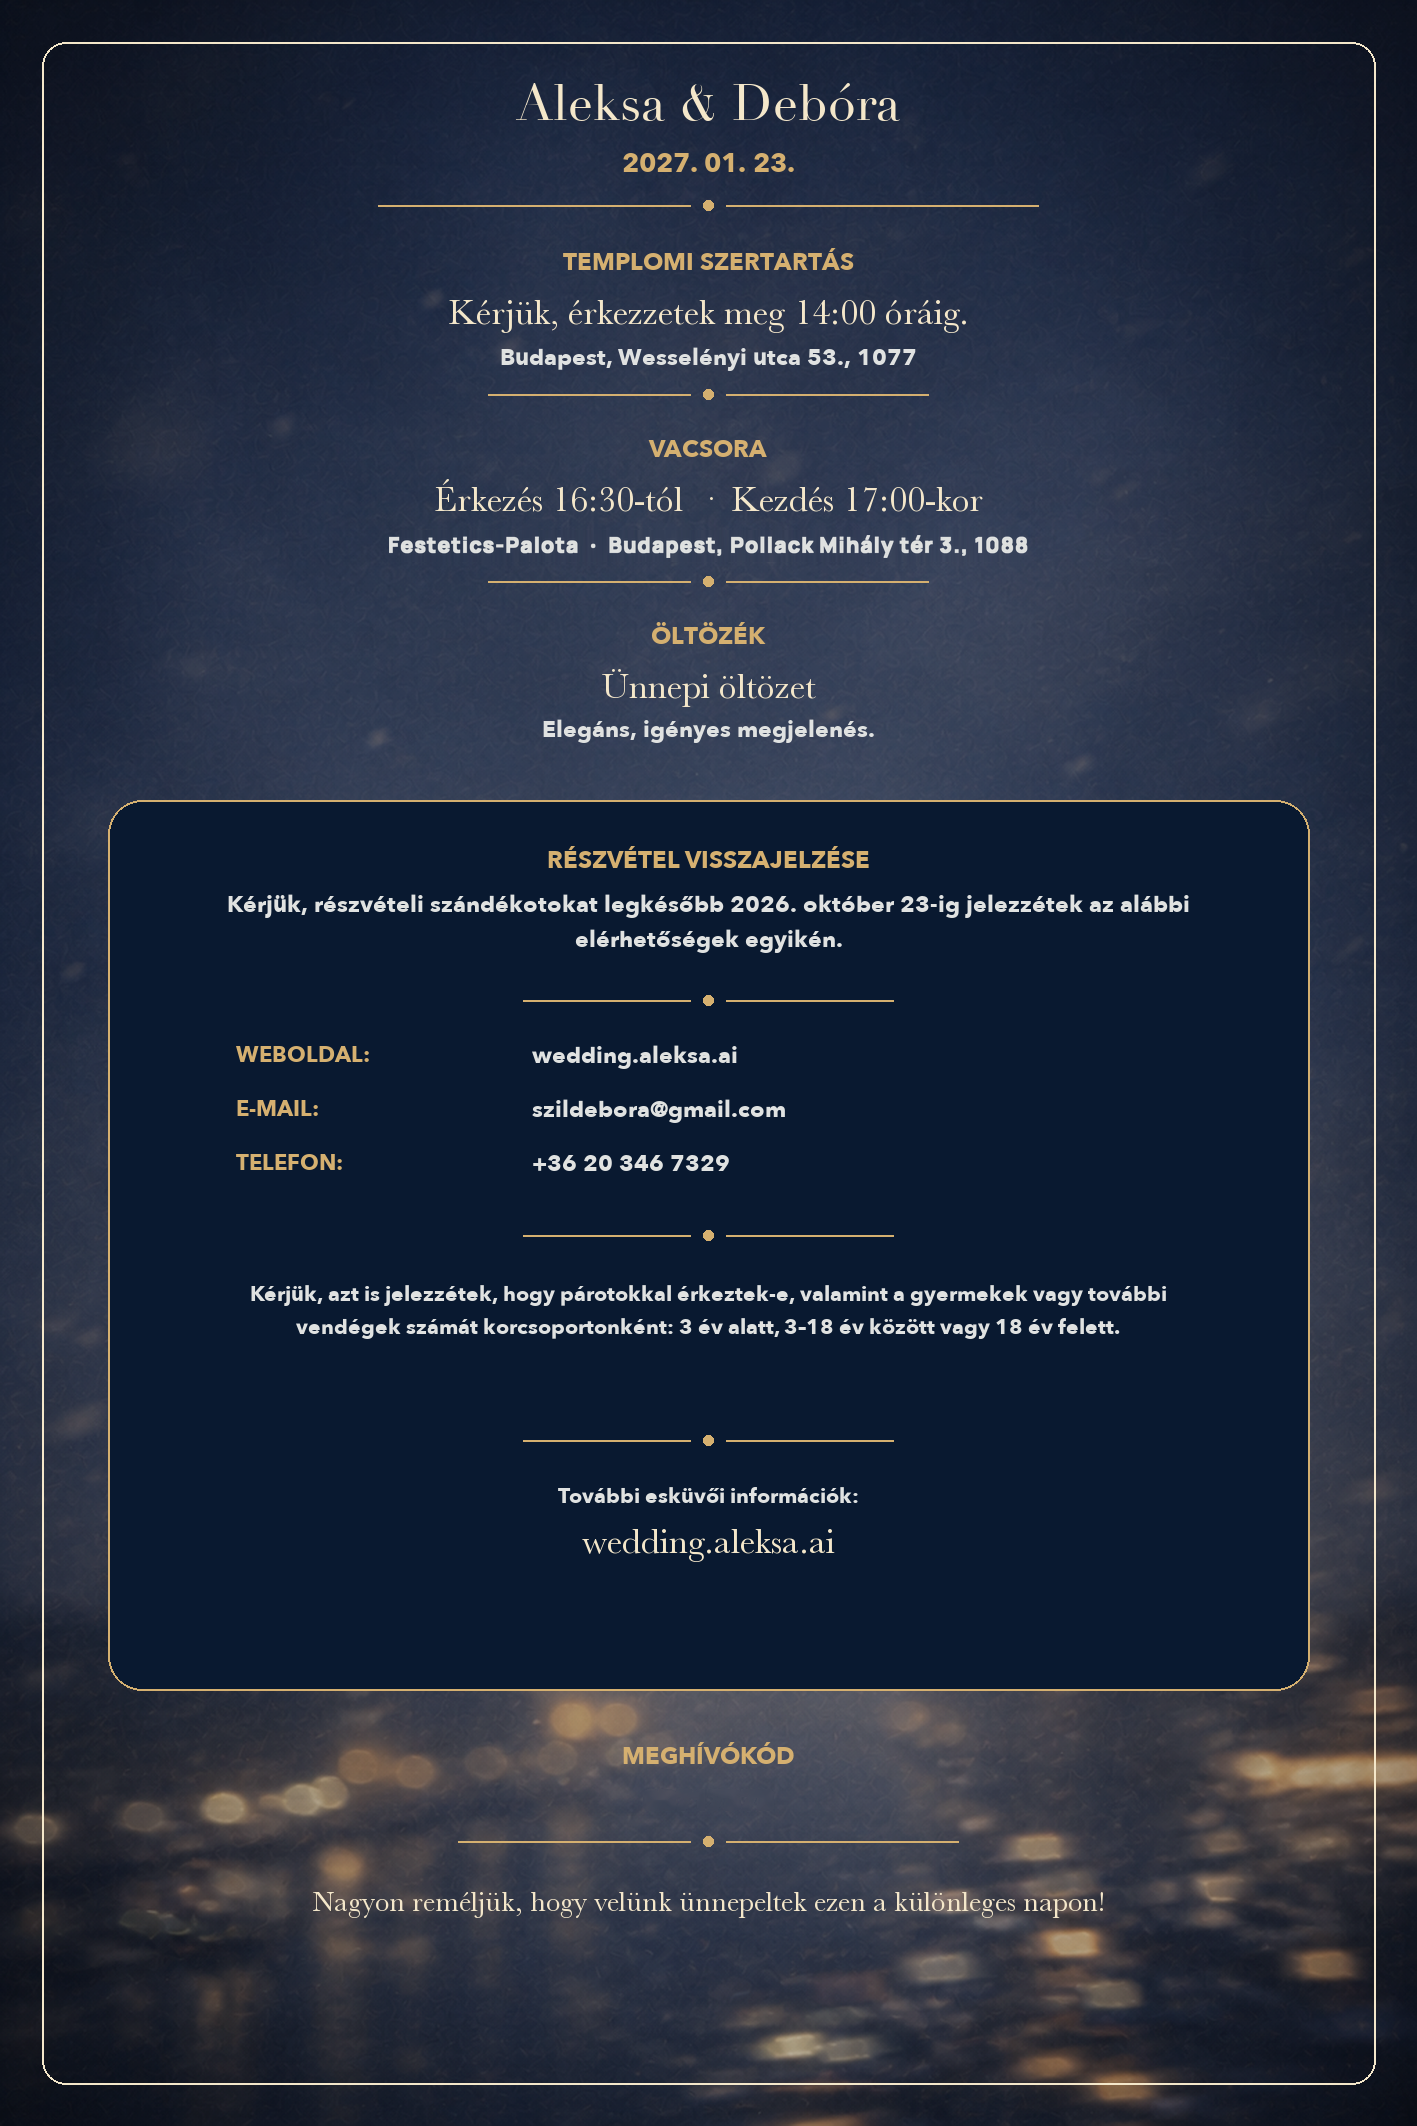
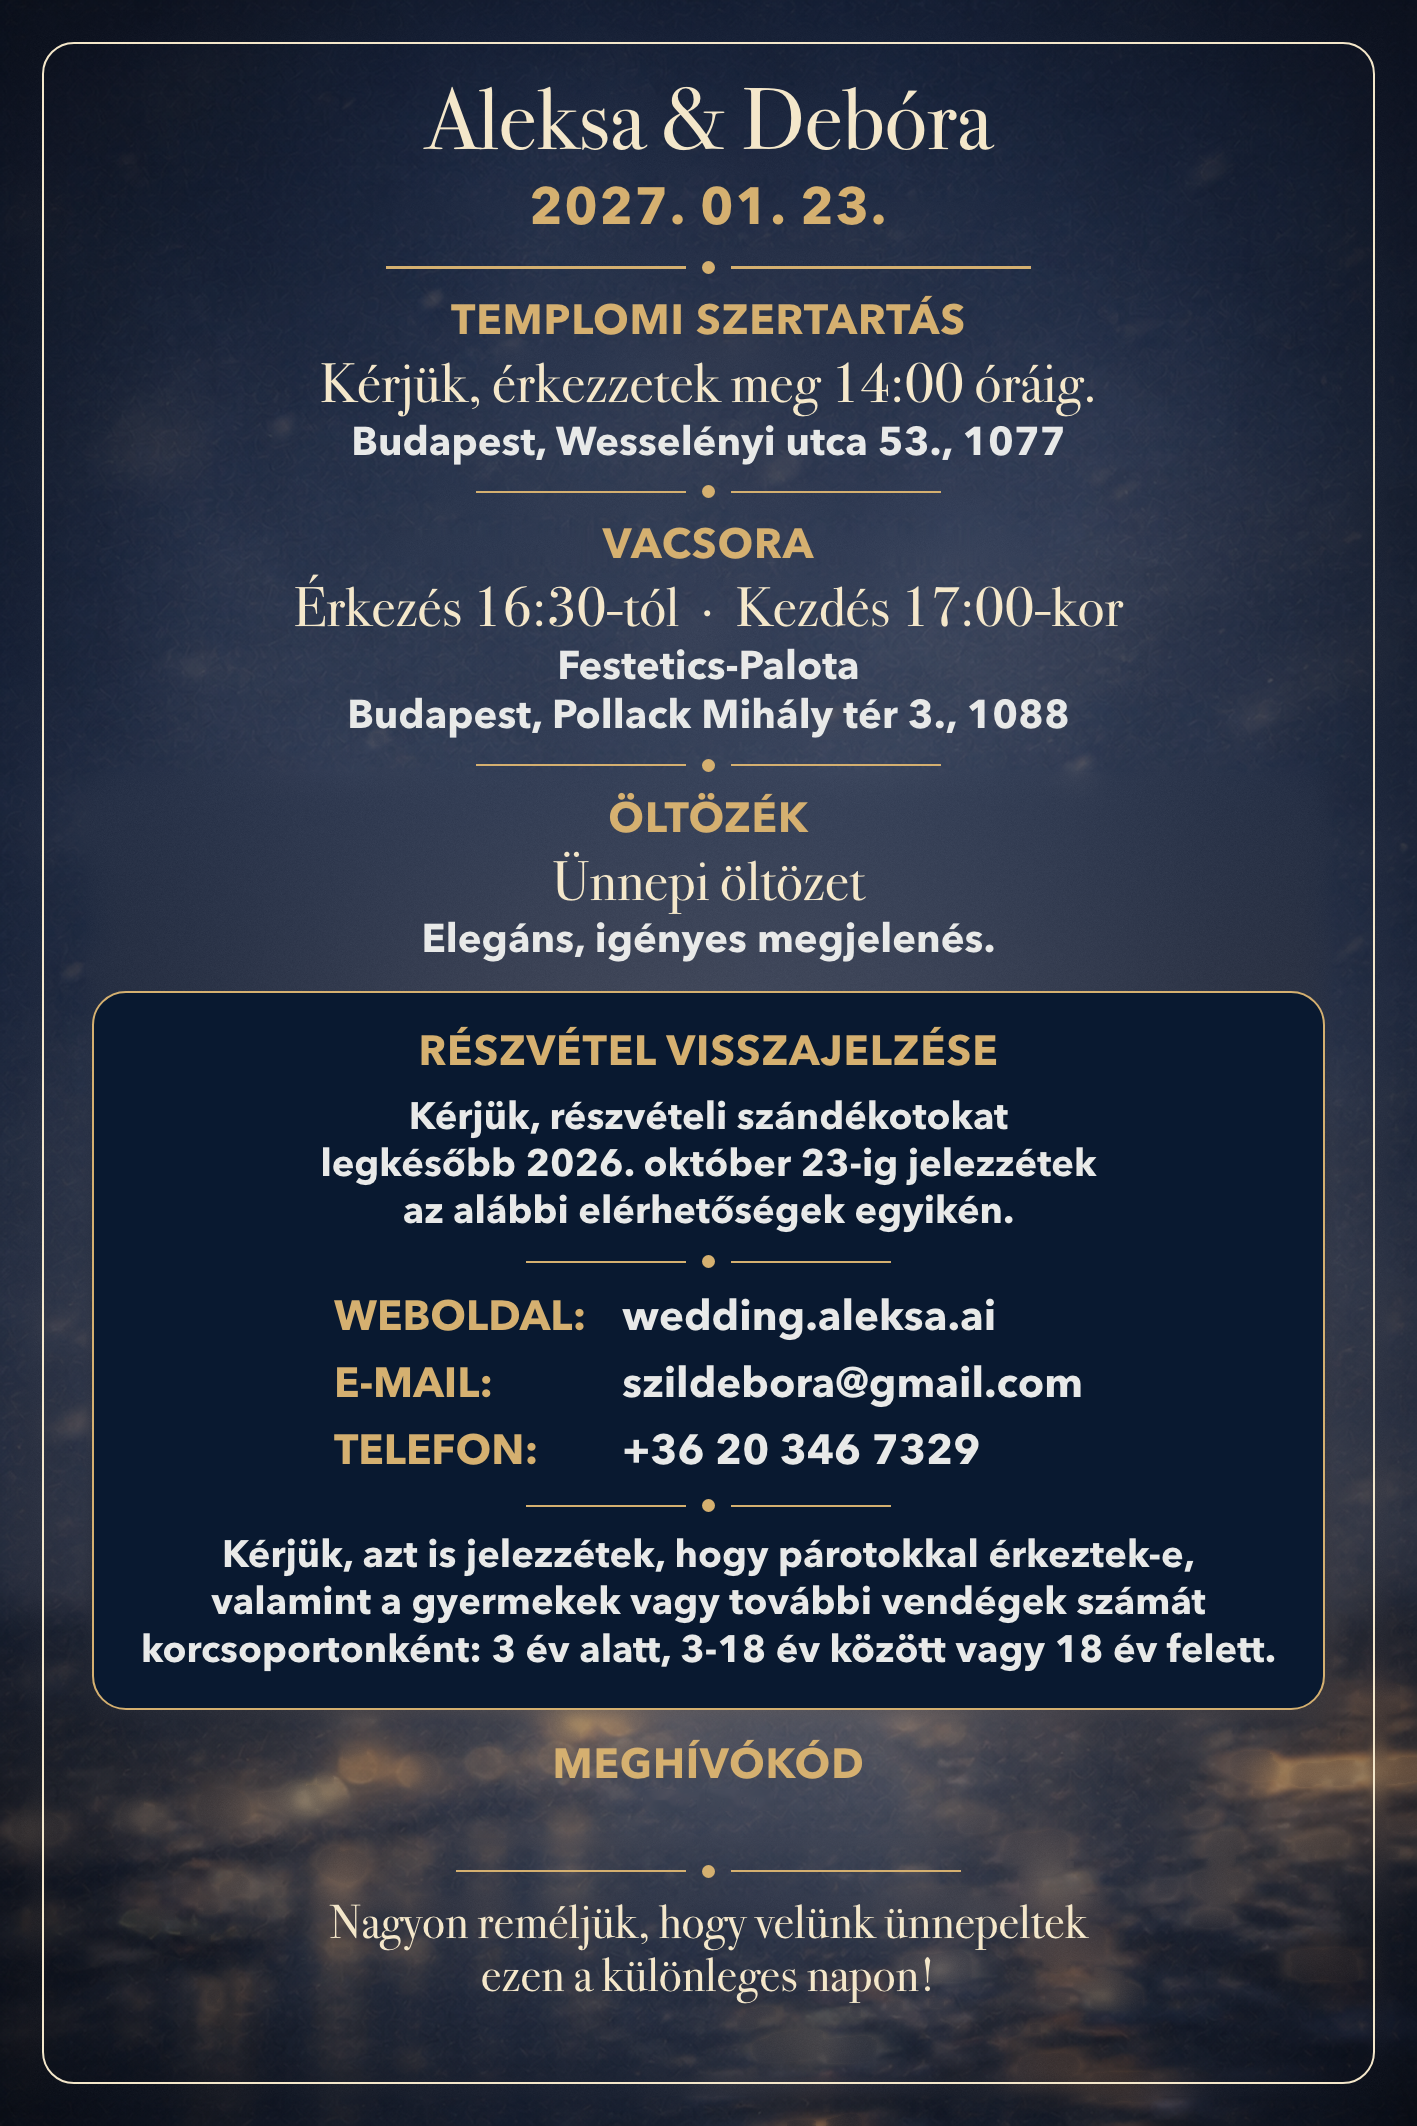
Larger type on the Hungarian invitation cards
Debóra's older relatives could not read the printed Hungarian cards.
Front and back are reset in bigger type over the original background,
and the admin places a larger invitation code for Hungarian backs.

diff --git a/src/admin/AdminApp.jsx b/src/admin/AdminApp.jsx
@@ -68,7 +68,13 @@ const statusLabels = {
 const cardLanguages = new Set(["de", "en", "hu", "sr"]);
 // Update this fingerprint whenever any approved card artwork changes so
 // already-open admin sessions cannot reuse stale browser/CDN image caches.
-const cardArtworkVersion = "40d3cf693e2b";
+const cardArtworkVersion = "b7e2c41f9a06";
+
+// Where the personal code sits on each back (px on the 1417 × 2126 artwork).
+// The Hungarian cards were reset in larger type for older guests, so their code is larger too.
+const cardHeight = 2126;
+const codeSlots = { HU: { y: 1829, size: 56 } };
+const defaultCodeSlot = { y: 1800, size: 26 };
 
 // Download names should read like the guest, not like the database:
 // "kyung_einladung_front.png" instead of "0B59A6DB-DE-FRONT.png". The code is
@@ -106,6 +112,7 @@ function cardAssets(language) {
   return {
     front: `/assets/cards/${normalized}-FRONT.png?v=${cardArtworkVersion}`,
     back: `/assets/cards/${normalized}-BACK.png?v=${cardArtworkVersion}`,
+    codeSlot: codeSlots[normalized] || defaultCodeSlot,
   };
 }
 
@@ -117,6 +124,8 @@ function openPrintableCard(invitation, fileBase) {
   const front = new URL(assets.front, window.location.origin).href;
   const back = new URL(assets.back, window.location.origin).href;
   const personalCode = invitation.code;
+  const codeTop = (assets.codeSlot.y / cardHeight * 100).toFixed(2);
+  const codePt = (assets.codeSlot.size * 72 / 300).toFixed(1);
   popup.document.write(`<!doctype html>
     <html><head><meta charset="utf-8"><title>${fileBase}</title>
     <style>
@@ -128,7 +137,7 @@ function openPrintableCard(invitation, fileBase) {
       img { display: block; width: 100%; height: 100%; }
       .page--front img { object-fit: fill; }
       .page--back img { object-fit: fill; }
-      .personal-code { position: absolute; left: 10mm; right: 10mm; top: 84.67%; transform: translateY(-50%); text-align: center; color: #f8e8c8; font: 600 6.2pt/1 "Avenir Next", Avenir, Helvetica, sans-serif; letter-spacing: .025em; }
+      .personal-code { position: absolute; left: 10mm; right: 10mm; top: ${codeTop}%; transform: translateY(-50%); text-align: center; color: #f8e8c8; font: 600 ${codePt}pt/1 "Avenir Next", Avenir, Helvetica, sans-serif; letter-spacing: .025em; }
       @media screen { .page { margin-block: 18px; box-shadow: 0 18px 60px rgba(14,31,44,.2); } }
       @media print { html, body { background: transparent; } .page { margin: 0; box-shadow: none; } }
     </style></head><body>
@@ -185,7 +194,7 @@ async function withPngDensity(blob, dpi = 300) {
 }
 
 async function downloadPersonalizedBack(invitation, fileBase) {
-  const { back } = cardAssets(invitation.default_language);
+  const { back, codeSlot } = cardAssets(invitation.default_language);
   const response = await fetch(back);
   if (!response.ok) throw new Error("Card artwork could not be loaded");
   const sourceBlob = await response.blob();
@@ -201,12 +210,12 @@ async function downloadPersonalizedBack(invitation, fileBase) {
   context.drawImage(image, 0, 0);
   URL.revokeObjectURL(objectUrl);
 
-  await document.fonts?.load('600 26px "Avenir Next"');
+  await document.fonts?.load(`600 ${codeSlot.size}px "Avenir Next"`);
   context.fillStyle = "#f8e8c8";
-  context.font = '600 26px "Avenir Next", Avenir, Helvetica, sans-serif';
+  context.font = `600 ${codeSlot.size}px "Avenir Next", Avenir, Helvetica, sans-serif`;
   context.textAlign = "center";
   context.textBaseline = "middle";
-  context.fillText(invitation.code, canvas.width / 2, 1800);
+  context.fillText(invitation.code, canvas.width / 2, codeSlot.y);
 
   const renderedBlob = await new Promise((resolve, reject) => canvas.toBlob((result) => result ? resolve(result) : reject(new Error("Card image could not be generated")), "image/png"));
   const downloadBlob = await withPngDensity(renderedBlob, 300);
@@ -384,7 +393,7 @@ function CardDrawer({ invitation, fileBase, onClose, onGenerated, onCopyLink }) 
         </header>
         <div className="card-preview-pair">
           <figure><div className="card-sheet card-sheet--front"><img src={assets.front} alt={`${invitation.default_language.toUpperCase()} invitation front`} /></div><figcaption>Front</figcaption></figure>
-          <figure><div className="card-sheet card-sheet--back"><img src={assets.back} alt={`${invitation.default_language.toUpperCase()} invitation back`} /><span>{invitation.code}</span></div><figcaption>Back · invitation code</figcaption></figure>
+          <figure><div className="card-sheet card-sheet--back"><img src={assets.back} alt={`${invitation.default_language.toUpperCase()} invitation back`} /><span style={{ top: `${assets.codeSlot.y / cardHeight * 100}%`, fontSize: `${0.42 * assets.codeSlot.size / defaultCodeSlot.size}rem` }}>{invitation.code}</span></div><figcaption>Back · invitation code</figcaption></figure>
         </div>
         <div className="card-personal-link"><span>Personal invitation</span><code>https://{weddingHost}/{invitation.code}</code></div>
         <div className="card-actions">

diff --git a/AGENTS.md b/AGENTS.md
@@ -28,6 +28,7 @@ Build app UI in `src/`. Keep `.openai/hosting.json`, `worker/index.js`, `scripts
 - The Hungarian and English backs carry the venue name in front of the reception address: `Festetics-Palota  ·  Budapest, Pollack Mihály tér 3., 1088` on HU and `Festetics Palace  ·  Budapest, Pollack Mihály tér 3, 1088` on EN (decision 2026-09-18; DE and SR keep the plain address). Each language keeps its own address punctuation. The line was repainted into `HU-BACK.png` and `EN-BACK.png` themselves, the background under it rebuilt by vertical interpolation from the clean rows above and below, and the type set in Manrope 800 at 21 px with 1.2 px tracking and a half-pixel dilation, calibrated against the original line so weight, height and baseline are unchanged. Keep the artwork at 1417 × 2126, 300 dpi, ICC profile intact.
 - Each approved back contains a localized invitation-code heading and a dedicated code slot. The public base assets must never contain a real invitation code. The user-facing preview, print flow, and personalized back-image download render only the selected invitation's existing `wedding_invitations.code` into that slot. The downloaded 1417 × 2126 PNG retains 300 dpi metadata. Active invitations have cards available immediately; backup invitations must never show or generate a card until promoted.
 - Card downloads are named after the guest, not the database: `<name>_einladung_front.png` and `<name>_einladung_back.png` (decision 2026-08-24), and the print window's document title is `<name>_einladung` so "Save as PDF" suggests the same name. `slugifyName` strips diacritics and punctuation; the invitation code is appended only when two households share a display name, and it replaces the name entirely if the name slugifies to nothing.
+- The Hungarian cards (`HU-FRONT.png`, `HU-BACK.png`) were reset in larger type on 2026-10-08 because Debóra's older relatives could not read the printed originals. Back: body and addresses 38–42 px (≈9–10 pt), main lines 56 px, headings 42 px in Bodoni 72 / Avenir Next Bold over the original background with the text removed; the duplicate "További esküvői információk: wedding.aleksa.ai" line in the RSVP box was dropped for space (the site stays listed under WEBOLDAL). Front: title unchanged, subtitle 60 px, verse 44 px, reference 34 px in Georgia. The Hungarian code slot is therefore larger and lower (`codeSlots.HU` in `src/admin/AdminApp.jsx`: y 1829, 56 px; every other language keeps y 1800, 26 px). Any change to a back's layout must update that slot too. Sources (HTML layouts and the text-free backgrounds) are not in the repo; DE/EN/SR still carry the original small type.
 - Admin front and back URLs carry the shared `cardArtworkVersion` cache-busting fingerprint in `src/admin/AdminApp.jsx`. Change that fingerprint whenever any approved card artwork changes so existing admin sessions cannot reuse stale images.
 - Canonical event details live in `src/i18n.js`: the couple is addressed by first names only, `Aleksa & Debóra` (decision 2026-08-24, no surnames anywhere in the user-facing site); wedding 23.01.2027; church at Wesselényi utca 53, 1077 Budapest from 14:00; reception at Pollack Mihály tér 3, 1088 Budapest from 17:00; RSVP deadline 31.10.2026; contact `szildebora@gmail.com` / `+36 20 346 7329`. Keep shared addresses, map URLs, website, email, and phone centralized in `eventDetails`; keep user-facing copy localized in all four translation objects.
 
